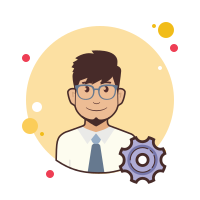
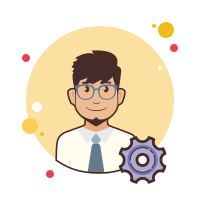
upload img utente

diff --git a/templates/user/account.html b/templates/user/account.html
@@ -1,44 +1,47 @@
 <title>Profilo</title>
 
 <div class="container" id="main-area" style="margin-top: 25px; ">
-   
-    <form  method="POST" action="{{ROOT_URL}}user/accountUpdate.php" >
+
+    <form method="POST" action="{{ROOT_URL}}user/accountUpdate.php" enctype="multipart/form-data">
         <div class="row">
 
             <div class="col-7">
 
-           
-                    <h4><label class="form-label">Informazioni personali:</label></h4>
-                    <hr>
-                    <label class="form-label">Nome</label>
-                    <input class="form-control" id="name_user"  name= "name_user" type="text" value= {{ user[0]['name'] }}> 
-                    <label class="form-label" for="disabledInput">Cognome</label>
-                    <input class="form-control" id="surname_user" name= "surname_user" type="text" value={{ user[0]['surname'] }}>
-                    <label class="form-label" for="disabledInput">Email</label>
-                    <input class="form-control" id="email_user" name="email_user" type="text" value={{ user[0]['email'] }}>
 
-                    <br><br>
-                    <h4><label class="form-label">Aggiorna password</label></h4>
-                    <hr>
-                    <label class="form-label">Password attuale</label>
-                    <input class="form-control" id="password" name= "password" type="password" value="">
-                    <label class="form-label" for="disabledInput">Nuova password</label>
-                    <input class="form-control" id="new_password" name ="new_password" type="password" value="********">
-                    <label class="form-label" for="disabledInput">Conferma password</label>
-                    <input class="form-control" id="new_password2" name ="new_password2" type="password" value="********">
+                <h4><label class="form-label">Informazioni personali:</label></h4>
+                <hr>
+                <label class="form-label">Nome</label>
+                <input class="form-control" id="name_user" name="name_user" type="text" value={{ user[0]['name'] }}>
+                <label class="form-label" for="disabledInput">Cognome</label>
+                <input class="form-control" id="surname_user" name="surname_user" type="text" value={{
+                    user[0]['surname'] }}>
+                <label class="form-label" for="disabledInput">Email</label>
+                <input class="form-control" id="email_user" name="email_user" type="text" value={{ user[0]['email'] }}>
 
-             
+                <br><br>
+                <h4><label class="form-label">Aggiorna password</label></h4>
+                <hr>
+                <label class="form-label">Password attuale</label>
+                <input class="form-control" id="password" name="password" type="password" value="">
+                <label class="form-label" for="disabledInput">Nuova password</label>
+                <input class="form-control" id="new_password" name="new_password" type="password" value="********">
+                <label class="form-label" for="disabledInput">Conferma password</label>
+                <input class="form-control" id="new_password2" name="new_password2" type="password" value="********">
+
+
             </div>
             <div class="col-2"></div>
             <div class="col-3" style="margin-top: 15px;">
-            <h4><label class="form-label"></label></h4>
+                <h4><label class="form-label"></label></h4>
                 <div class="card border-light" style="width: 100%; border:none;">
-                    <img class="rounded-circle" src="{{ ROOT_URL }}{{ user[0]['img']}}" class="card-img-top" alt="..."></img>
+                    <img class="rounded-circle" src="{{ ROOT_URL }}{{ user[0]['img']}}" class="card-img-top"
+                        alt="..."></img>
                 </div>
                 <br><br>
                 <div class="input-group mb-3">
-                    <input type="file" class="form-control" id="inputGroupFile02"></input>
-                    <label class="input-group-text" for="inputGroupFile02">Upload</label>
+                        <input type="file" class="form-control" value="scegli immagine" name="image" />
+                        <br>
+                        <input type="submit" class="input-group-text" value="Upload" for="inputGroupFile02" />
                 </div>
             </div>
         </div>
@@ -46,11 +49,11 @@
         <div class="row">
 
             <div class="col-5"></div>
-            <div class="col-1"><input type="submit" class="btn btn-outline-primary" value="Modifica" style="width: 100%;"></input></div>
-            <div class="col-1"><input type="reset" class="btn btn-outline-danger" value="Reset" style="width: 100%;"></input></div>
+            <div class="col-1"><input type="submit" class="btn btn-outline-primary" value="Modifica"
+                    style="width: 100%;"></input></div>
+            <div class="col-1"><input type="reset" class="btn btn-outline-danger" value="Reset"
+                    style="width: 100%;"></input></div>
             <div class="col-5"></div>
         </div>
     </form>
-   
 </div>
-

diff --git a/user/accountUpdate.php b/user/accountUpdate.php
@@ -1,26 +1,46 @@
 <?php
 include "../inc/init.php";
 
-    if (!isset($_SESSION["email"]) ) {
-        header("Location: " . ROOT_URL);
-    }
-    
-    $userMgr = new UserManager();
-    $user = $userMgr->data($_SESSION["email"]);
+if (!isset($_SESSION["email"])) {
+    header("Location: " . ROOT_URL);
+}
 
-    $name_user= $_POST["name_user"];
-    $surname_user= $_POST["surname_user"];
-    $email_user = $_POST["email_user"];
-    $password = $_POST["password"];
-    $new_password2 = $_POST["new_password2"];
-    $new_password= $_POST["new_password"];
-    if($new_password == $new_password && hash("sha1",$password) == $user[0]['password'] ){
-        $new_passwordh= hash("sha1",$new_password);
-        $userap = $userMgr->updateUser($user[0]['id'], $name_user, $surname_user,$email_user,$new_passwordh);
-    }
-   
-    
-       
+$userMgr = new UserManager();
+$user = $userMgr->data($_SESSION["email"]);
 
-        header("Location: ".ROOT_URL."user/account.php");
-?>
+$name_user = $_POST["name_user"];
+$surname_user = $_POST["surname_user"];
+$email_user = $_POST["email_user"];
+$password = $_POST["password"];
+$new_password2 = $_POST["new_password2"];
+$new_password = $_POST["new_password"];
+if ($new_password == $new_password && hash("sha1", $password) == $user[0]['password']) {
+    $new_passwordh = hash("sha1", $new_password);
+    $userap = $userMgr->updateUser($user[0]['id'], $name_user, $surname_user, $email_user, $new_passwordh);
+}
+
+// upload immagine
+if (isset($_FILES)) {
+
+    $tmp = $_FILES['image']['tmp_name'];
+    $folder = ROOT_PATH . "public/img/user"; //cartella di destinazione dell'immagine
+    $name = "/" . $_SESSION['email'];
+    $ext = ".png";
+
+    if (is_uploaded_file($tmp)) {
+        $uploadDir = $folder . $name . $ext; //aggiungo il folder di destinazione
+        echo $_SESSION['img'];
+        echo "<br>";
+        if (move_uploaded_file($tmp, $uploadDir)) {
+            $userID = $_SESSION['userid'];
+            $email = $_SESSION['email'];
+            $_SESSION['img'] = "public/img/user/" . $email . ".png";
+            echo $_SESSION['img'];
+            echo "<br>";
+            $userMgr->updateImg($userID, $email);
+        } else {
+            echo "Non è stato possibile caricare l'immagine<br/>";
+        }
+    }
+}
+header("Location: " . ROOT_URL . "user/account.php");

diff --git a/public/upload.php b/public/upload.php
@@ -1,0 +1,18 @@
+<?php
+include "../inc/init.php";
+
+$tmp = $_FILES['image']['tmp_name'];
+$folder = ROOT_PATH . "public/img/user"; //cartella di destinazione dell'immagine
+$name = "/" . $_SESSION['email'];
+$ext = ".png";
+
+if(is_uploaded_file($tmp)) {
+
+$uploadDir = $folder . $name . $ext; //aggiungo il folder di destinazione
+
+if(move_uploaded_file($tmp,$uploadDir)) {
+    echo "Caricato correttamente";
+} else {
+    echo "Non è stato possibile caricare l'immagine<br/>";
+}
+}

diff --git a/classes/User.php b/classes/User.php
@@ -74,6 +74,11 @@ class UserManager extends DbManager
     return $this->db->query("SELECT surname, img FROM User WHERE id = $id");
   }
 
+  public function updateImg($userID, $email) {
+    $url = "public/img/user/" . $email . ".png";
+    return $this->db->execute("UPDATE User SET img = '$url' WHERE id = $userID");
+  }
+
   /* DASHBOARD */
 
   public function getClient()
